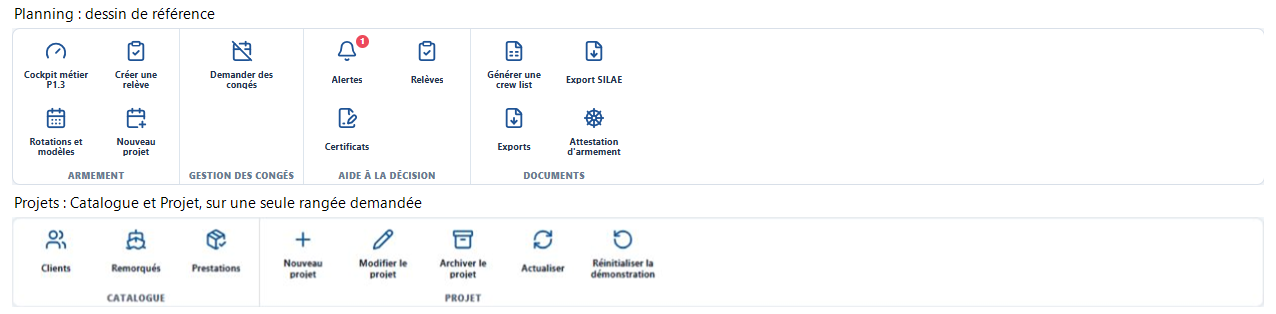
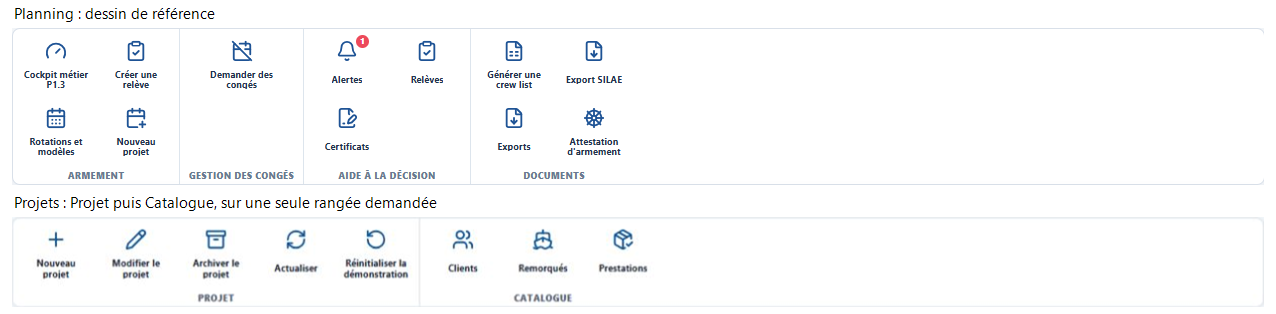
style(projects): place project commands before catalogue

diff --git a/src/features/projects/preview/ProjectPreview.tsx b/src/features/projects/preview/ProjectPreview.tsx
@@ -376,17 +376,17 @@ export function ProjectPreview() {
       <main className="pp-main">
         <header className="pp-module-header"><div><small>MODULE</small><h1>Projets</h1><p>Contrats, opérations, facturation et documents.</p></div></header>
         <ModuleRibbon ariaLabel="Menu des projets" className="pp-module-ribbon" singleRow>
-          <ModuleRibbonGroup label="Catalogue">
-            <ModuleRibbonCommand icon={<Users aria-hidden="true" size={22} />} label="Clients" onClick={() => catalog('Clients')} />
-            <ModuleRibbonCommand icon={<Ship aria-hidden="true" size={22} />} label="Remorqués" onClick={() => catalog('Remorqués')} />
-            <ModuleRibbonCommand icon={<PackageCheck aria-hidden="true" size={22} />} label="Prestations" onClick={() => catalog('Prestations')} />
-          </ModuleRibbonGroup>
           <ModuleRibbonGroup label="Projet">
             <ModuleRibbonCommand icon={<Plus aria-hidden="true" size={22} />} label="Nouveau projet" onClick={() => projectEditor(true)} />
             <ModuleRibbonCommand icon={<Pencil aria-hidden="true" size={22} />} label="Modifier le projet" disabled={archived} onClick={() => projectEditor()} />
             <ModuleRibbonCommand icon={<Archive aria-hidden="true" size={22} />} label="Archiver le projet" disabled={archived} onClick={() => setConfirm({ title: 'Archiver le projet', message: `Archiver ${demo.project.projectCode} dans la démonstration ?`, action: () => { update((current) => ({ ...current, project: { ...current.project, archivedAt: new Date().toISOString() } })); setShowArchived(true); notify('Projet archivé dans la démonstration.'); } })} />
             <ModuleRibbonCommand icon={<RefreshCw aria-hidden="true" size={22} />} label="Actualiser" onClick={() => notify('Données de démonstration actualisées.')} />
             <ModuleRibbonCommand icon={<RotateCcw aria-hidden="true" size={22} />} label="Réinitialiser la démonstration" onClick={reset} />
+          </ModuleRibbonGroup>
+          <ModuleRibbonGroup label="Catalogue">
+            <ModuleRibbonCommand icon={<Users aria-hidden="true" size={22} />} label="Clients" onClick={() => catalog('Clients')} />
+            <ModuleRibbonCommand icon={<Ship aria-hidden="true" size={22} />} label="Remorqués" onClick={() => catalog('Remorqués')} />
+            <ModuleRibbonCommand icon={<PackageCheck aria-hidden="true" size={22} />} label="Prestations" onClick={() => catalog('Prestations')} />
           </ModuleRibbonGroup>
         </ModuleRibbon>
         <div className="pp-workspace">

diff --git a/preview/projects/design-qa.md b/preview/projects/design-qa.md
@@ -117,11 +117,12 @@ Captures ouvertes et contrôlées : [ordinateur](./evidence/billing-compact-desk
 
 Aucun P0/P1/P2 restant dans cette itération.
 
-## Itération : ruban Catalogue / Projet
+## Itération : ruban Projet / Catalogue
 
 Demande du 9 octobre : remplacer les deux menus de l'en-tête par les commandes
 du même dessin que le Planning, documenter les règles communes de boutons,
-puis renommer Référentiels en Catalogue et privilégier une seule rangée.
+puis renommer Référentiels en Catalogue, privilégier une seule rangée et placer
+le groupe Projet avant Catalogue.
 
 Références ouvertes : les captures utilisateur
 `codex-clipboard-6d326385-f56e-48d6-a2f4-0630a0391a62.png` et
@@ -130,7 +131,7 @@ Le Planning fourni est une référence de dessin, avec ses propres commandes ;
 la demande suivante autorise explicitement une rangée au lieu de ses deux.
 
 - L'ancienne disposition à deux menus est remplacée par huit commandes
-  directement accessibles, dans les groupes Catalogue et Projet.
+  directement accessibles, dans les groupes Projet puis Catalogue.
 - Le dessin vient de `ModuleRibbon` et du CSS Planning extrait dans
   `src/styles/module-ribbon.css`, partagé entre application et préversion.
   La variante `singleRow` est opt-in ; les rubans métier existants gardent
@@ -163,7 +164,7 @@ ont été ouvertes dans la même image. Les cinq surfaces ont été inspectées 
   commande de 6 px et focus commun ; aucune nouvelle palette indépendante.
 - Images et icônes : pictogrammes Lucide existants, sans actifs décoratifs
   ou logo recréés. Les métaphores correspondent aux actions de Projets.
-- Contenu : libellés Catalogue / Projet et huit actions cohérents ; les
+- Contenu : libellés Projet / Catalogue et huit actions cohérents ; les
   commandes propres au Planning ne sont pas copiées dans Projets.
 
 ### Comportements et responsive
@@ -173,8 +174,9 @@ ont été ouvertes dans la même image. Les cinq surfaces ont été inspectées 
 - Les tests couvrent les trois catalogues, leur fermeture et le retour du
   focus, nouveau/modification, archivage annulé et confirmé, actualisation
   et réinitialisation de la démonstration.
-- Dans le navigateur intégré, Entrée ouvre Clients ; Échap ferme sa fenêtre
-  et rend le focus à Clients. Aucun avertissement ou erreur console.
+- Dans le navigateur intégré, Entrée ouvre un catalogue (Clients, puis
+  Prestations après inversion des groupes) ; Échap ferme sa fenêtre et rend
+  le focus au bouton d'origine. Aucun avertissement ou erreur console.
 - À 1280 × 720, les huit boutons sont sur une seule rangée et la page ne
   déborde pas. À 390 × 844, scrollWidth de page 375 px, conteneur de ruban
   353 px et contenu 653 px ; les huit boutons restent alignés et accessibles

diff --git a/preview/projects/README.md b/preview/projects/README.md
@@ -16,8 +16,8 @@ les dimensions partagées SeaPilot.
 
 Les menus Référentiels et Projet sont remplacés par un ruban reprenant le
 dessin du Planning : icônes au-dessus des libellés, groupes séparés et nom de
-groupe en bas. Le groupe Catalogue donne accès aux clients, remorqués et
-prestations ; le groupe Projet rassemble ses cinq actions existantes. Toutes
+groupe en bas. Le groupe Projet rassemble ses cinq actions existantes et
+précède Catalogue, qui donne accès aux clients, remorqués et prestations. Toutes
 les commandes sont sur une seule rangée avec `ModuleRibbon singleRow`.
 Sur petit écran, seul le ruban défile horizontalement.
 Les règles des boutons et menus pour les pages sont documentées dans
